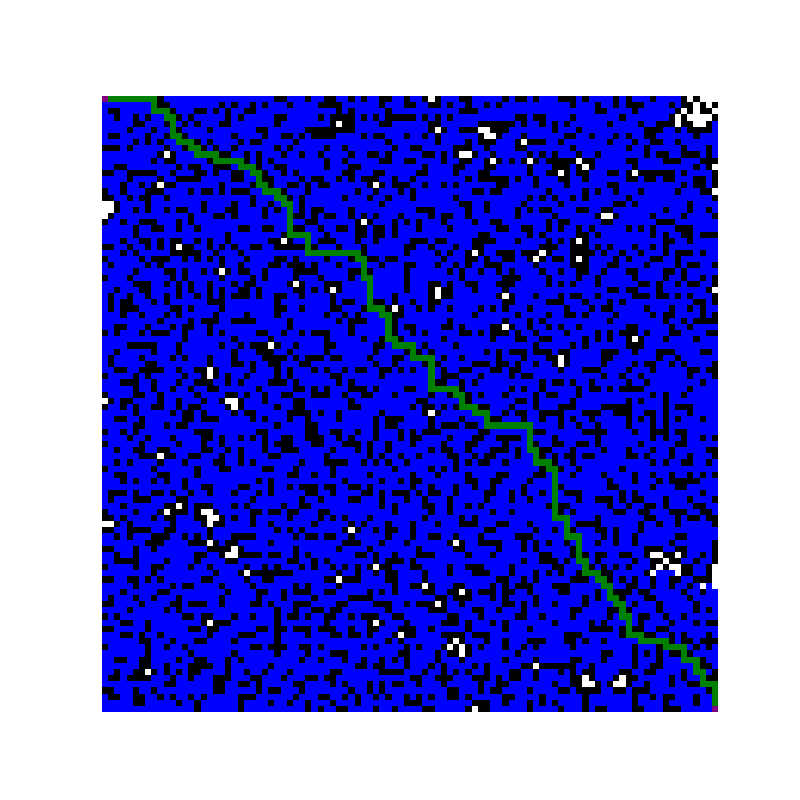
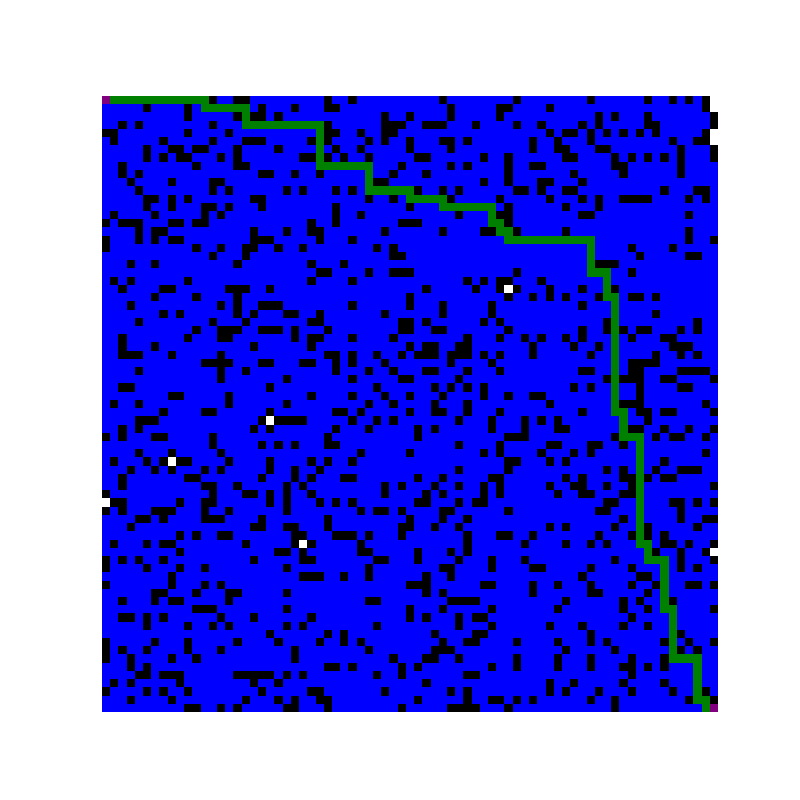
Fire strategy 1 implemented

Changed region(s): [[0.125, 0.0938, 0.9062, 0.9062]]

diff --git a/fire.py b/fire.py
@@ -1,5 +1,6 @@
 import numpy as np
 from astar import *
+from bfs import *
 from random import *
 
 def advance_fire_one_step(maze, q):
@@ -8,23 +9,74 @@ def advance_fire_one_step(maze, q):
 
     for x in range(0, dimension):
         for y in range(0, dimension):
-            if maze[x][y] != 1 and maze[x][y] != 6:
+            if maze[x][y] != 1 and maze[x][y] != 7 and maze[x][y] != 4:
                 k = 0
                 if x - 1 >= 0:
-                    if maze[x - 1][y] == 6:
+                    if maze[x - 1][y] == 7:
                         k += 1
                 if x + 1 < dimension:
-                    if maze[x + 1][y] == 6:
+                    if maze[x + 1][y] == 7:
                         k += 1
                 if y - 1 >= 0:
-                    if maze[x][y - 1] == 6:
+                    if maze[x][y - 1] == 7:
                         k += 1
                 if y + 1 < dimension:
-                    if maze[x][y + 1] == 6:
+                    if maze[x][y + 1] == 7:
                         k += 1
-            prob = 1 - (1 - q) ** k
-            if random() <= prob:
-                maze_copy[x][y] = 6
+                prob = 1 - (1 - q) ** k
+                if random() <= prob:
+                    if maze_copy[x][y] != 6:
+                        maze_copy[x][y] = 7
     
     return maze_copy
+
+def init_fire(maze):
+    fire_maze = np.copy(maze)
+    dimension = fire_maze.shape[0]
+    randX = randint(1, dimension - 1)
+    randY = randint(1, dimension - 1)
+
+    while fire_maze[randX][randY] == 1:
+        randX = randint(1, dimension - 1)
+        randY = randint(1, dimension - 1)
+    
+    fire_maze[randX][randY] = 7
+
+    return fire_maze
+
+def strategy_one(maze, fire, start, goal, q):
+    fire_maze = np.copy(fire)
+    status, traversal_path = bfs(fire_maze, start, goal)
+    if status == 'No Solution':
+        print('No path possible')
+        return fire_maze
+
+    dimension = maze.shape[0]
+
+    curX = 0
+    curY = 0
+
+    while fire_maze[curX][curY] != 7:
+        if fire_maze[curX][curY] == 4:
+            print('Escaped')
+            return fire_maze
+
+        if fire_maze[curX][curY] != 3:
+            fire_maze[curX][curY] = 6
+        
+        if curX + 1 < dimension and (traversal_path[curX + 1][curY] == 6 or traversal_path[curX + 1][curY] == 4) and fire_maze[curX + 1][curY] != 6:
+            curX = curX + 1
+        elif curX - 1 >= 0 and (traversal_path[curX - 1][curY] == 6 or traversal_path[curX - 1][curY] == 4) and fire_maze[curX - 1][curY] != 6:
+            curX = curX - 1
+        elif curY + 1 < dimension and (traversal_path[curX][curY + 1] == 6 or traversal_path[curX][curY + 1] == 4) and fire_maze[curX][curY + 1] != 6:
+            curY = curY + 1
+        elif curY - 1 >= 0 and (traversal_path[curX][curY - 1] == 6 or traversal_path[curX][curY - 1] == 4) and fire_maze[curX][curY - 1] != 6:
+            curY = curY - 1
+
+        fire_maze = advance_fire_one_step(fire_maze, 0.7)
+        
+    print('Died')
+    return fire_maze
+
+
 

diff --git a/astar.py b/astar.py
@@ -28,22 +28,22 @@ def astar(maze, start, goal):
 
         if maze_copy[curX][curY] == 5:
             continue
-
-        if curX + 1 < dimension and maze_copy[curX + 1][curY] != 1 and maze_copy[curX + 1][curY] != 5:
-            heapq.heappush(fringe, (euclidean_distance((curX + 1, curY), goal) + distance + 1, ((curX + 1, curY), 1 + distance)))
-            prev[(curX + 1, curY)] = current
-
-        if curY + 1 < dimension and maze_copy[curX][curY + 1] != 1 and maze_copy[curX][curY + 1] != 5:
-            heapq.heappush(fringe, (euclidean_distance((curX, curY + 1), goal) + distance + 1, ((curX, curY + 1), 1 + distance)))
-            prev[(curX, curY + 1)] = current
+        
+        if curY - 1 >= 0 and maze_copy[curX][curY - 1] != 1 and maze_copy[curX][curY - 1] != 5:
+            heapq.heappush(fringe, (euclidean_distance((curX, curY - 1), goal) + distance + 1, ((curX, curY - 1), 1 + distance)))
+            prev[(curX, curY - 1)] = current
 
         if curX - 1 >= 0 and maze_copy[curX - 1][curY] != 1 and maze_copy[curX - 1][curY] != 5:
             heapq.heappush(fringe, (euclidean_distance((curX - 1, curY), goal) + distance + 1, ((curX - 1, curY), 1 + distance)))
             prev[(curX - 1, curY)] = current
         
-        if curY - 1 >= 0 and maze_copy[curX][curY - 1] != 1 and maze_copy[curX][curY - 1] != 5:
-            heapq.heappush(fringe, (euclidean_distance((curX, curY - 1), goal) + distance + 1, ((curX, curY - 1), 1 + distance)))
-            prev[(curX, curY - 1)] = current
+        if curY + 1 < dimension and maze_copy[curX][curY + 1] != 1 and maze_copy[curX][curY + 1] != 5:
+            heapq.heappush(fringe, (euclidean_distance((curX, curY + 1), goal) + distance + 1, ((curX, curY + 1), 1 + distance)))
+            prev[(curX, curY + 1)] = current
+
+        if curX + 1 < dimension and maze_copy[curX + 1][curY] != 1 and maze_copy[curX + 1][curY] != 5:
+            heapq.heappush(fringe, (euclidean_distance((curX + 1, curY), goal) + distance + 1, ((curX + 1, curY), 1 + distance)))
+            prev[(curX + 1, curY)] = current
         
         if current != start:
             maze_copy[curX][curY] = 5

diff --git a/main.py b/main.py
@@ -7,12 +7,35 @@ from random import *
 from dfs import *
 from bfs import *
 from astar import *
+from fire import *
 
 ## white: free, black: wall, purple: start/goal, green: optimal path, blue: all visited, red: fire
 color_set = ['white', 'black', 'purple', 'blue', 'green', 'red']
 range_set = np.array([-0.5, 0.5, 2.5, 4.5, 5.5, 6.5, 7.5])
 
 def main():
+    test_fire_strategies()
+
+def test_fire_strategies():
+    cmap = colors.ListedColormap(color_set)
+    norm = colors.BoundaryNorm(range_set, len(color_set))
+    plt.figure(figsize = (8, 8))
+    plt.axis('off')
+
+    dimension = int(sys.argv[1])
+    density = float(sys.argv[2])
+
+    maze = generate_maze(dimension, density)
+    fire_maze = init_fire(maze)
+
+    #print(maze)
+    #print(fire_maze)
+    fire_result = strategy_one(maze, fire_maze, (0, 0), (dimension - 1, dimension - 1), 0.3)
+
+    plt.imshow(fire_result, cmap = cmap, norm = norm)
+    plt.savefig('fire_strat1.jpg')
+
+def test_path_algorithms():
     dimension = int(sys.argv[1])
     density = float(sys.argv[2])
 
@@ -21,25 +44,6 @@ def main():
     plt.figure(figsize = (8, 8))
     plt.axis('off')
 
-    '''
-    maze = generate_maze(dimension, density)
-
-    status, astar_maze = astar(maze, (0, 0), (dimension - 1, dimension - 1))
-    print(status)
-
-    status, dfs_maze = dfs(maze, (0, 0), (dimension - 1, dimension - 1))
-    print(status)
-
-    status, bfs_maze = bfs(maze, (0, 0), (dimension - 1, dimension - 1))
-    print(status)
-
-    plt.imshow(astar_maze, cmap = cmap, norm = norm)
-    plt.savefig('astar.jpg')
-    plt.imshow(dfs_maze, cmap = cmap, norm = norm)
-    plt.savefig('dfs.jpg')
-    plt.imshow(bfs_maze, cmap = cmap, norm = norm)
-    plt.savefig('bfs.jpg')
-    '''
     maze = generate_maze(dimension, density)
     
     start_time = time.time()
@@ -82,5 +86,5 @@ def generate_maze(dimension, density):
                 maze[x][y] = 1 # fill with wall
 
     return maze
-# test
+
 main()

diff --git a/bfs.py b/bfs.py
@@ -26,19 +26,19 @@ def bfs(maze, start, goal):
         if maze_copy[curX][curY] == 5:
             continue
 
-        if curX + 1 < dimension and maze[curX + 1][curY] != 1 and maze_copy[curX + 1][curY] != 5:
+        if curX + 1 < dimension and maze[curX + 1][curY] != 1 and maze_copy[curX + 1][curY] != 5 and maze_copy[curX + 1][curY] != 7:
             fringe.append((curX + 1, curY))
             prev[(curX + 1, curY)] = current
         
-        if curY + 1 < dimension and maze[curX][curY + 1] != 1 and maze_copy[curX][curY + 1] != 5:
+        if curY + 1 < dimension and maze[curX][curY + 1] != 1 and maze_copy[curX][curY + 1] != 5 and maze_copy[curX][curY + 1] != 7:
             fringe.append((curX, curY + 1))
             prev[(curX, curY + 1)] = current
 
-        if curX - 1 >= 0 and maze[curX - 1][curY] != 1 and maze_copy[curX - 1][curY] != 5:
+        if curX - 1 >= 0 and maze[curX - 1][curY] != 1 and maze_copy[curX - 1][curY] != 5 and maze_copy[curX - 1][curY] != 7:
             fringe.append((curX - 1, curY))
             prev[(curX - 1, curY)] = current
 
-        if curY - 1 >= 0 and maze[curX][curY - 1] != 1 and maze_copy[curX][curY - 1] != 5:
+        if curY - 1 >= 0 and maze[curX][curY - 1] != 1 and maze_copy[curX][curY - 1] != 5 and maze_copy[curX][curY - 1] != 7:
             fringe.append((curX, curY - 1))
             prev[(curX, curY - 1)] = current
 
